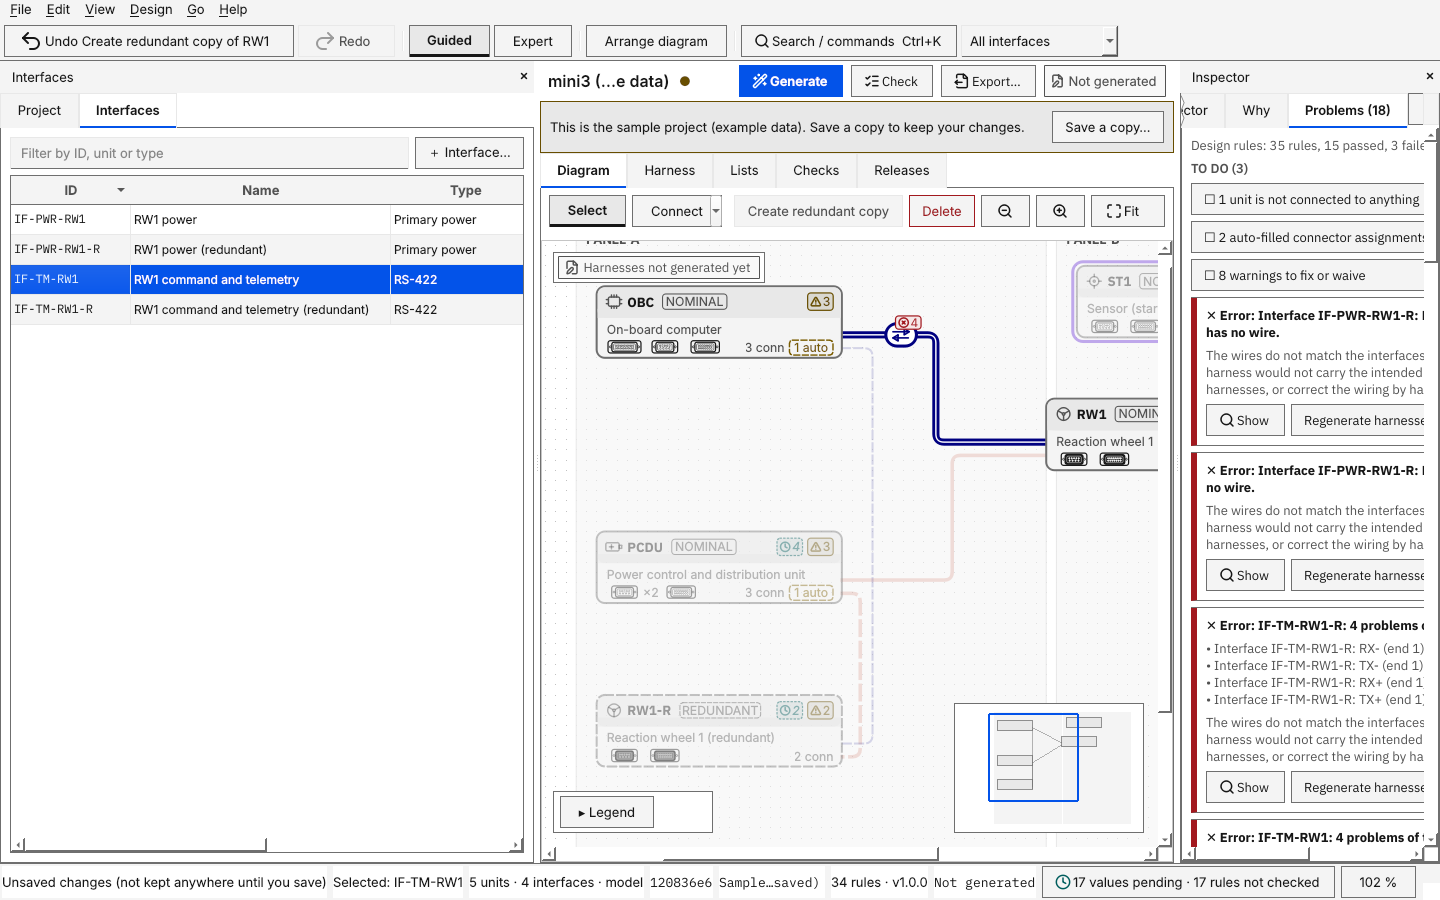
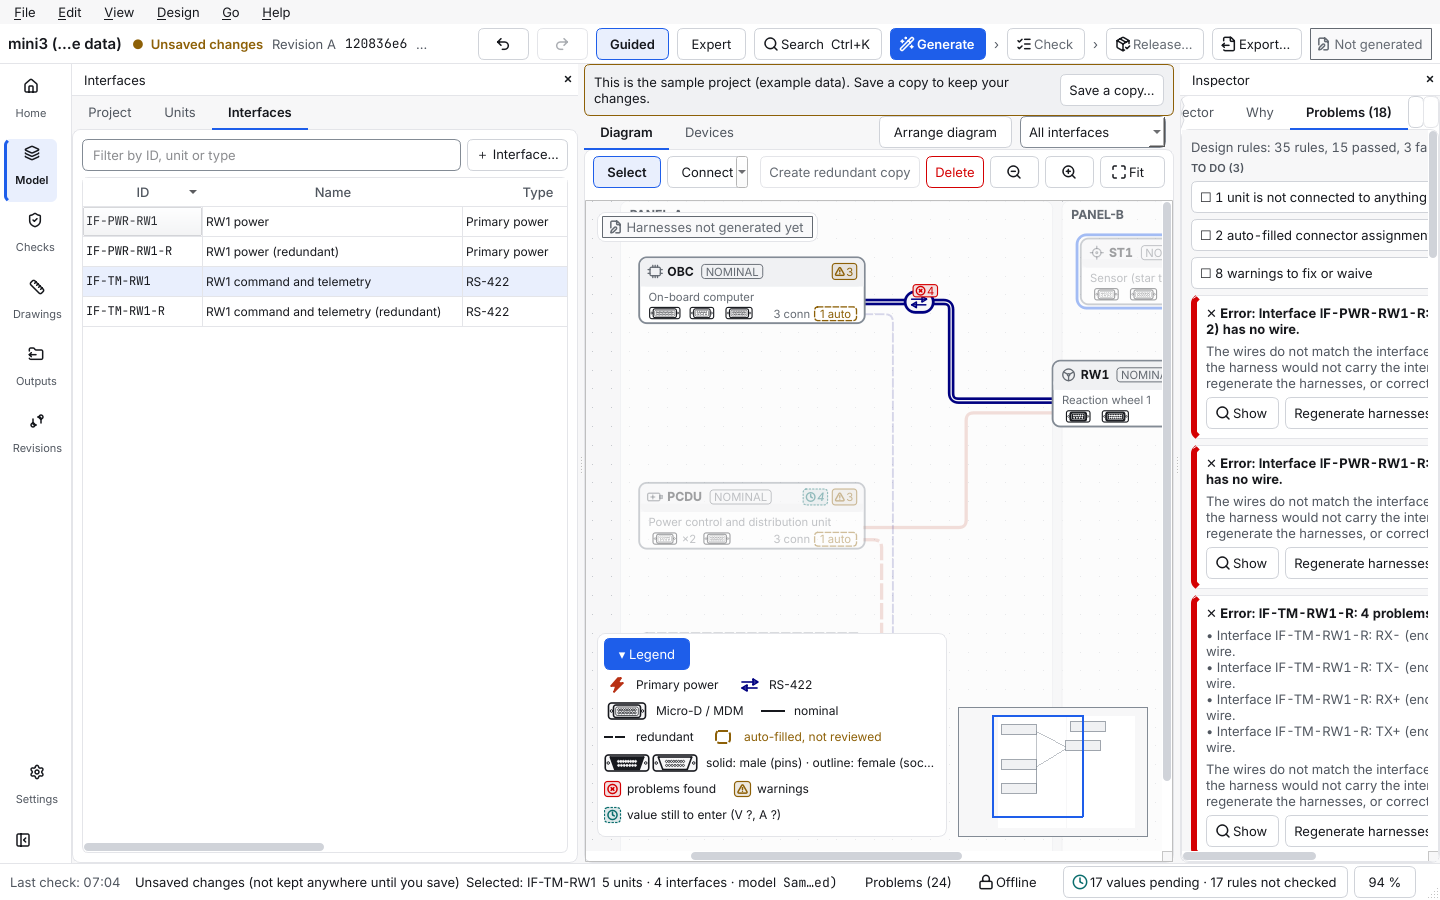
Record the publication of 1.3.0: checksums, SIGNOFF.md section, README and CLAUDE.md status, editor pictures redrawn for the new window
Claude-Session: https://claude.ai/code/session_01K7PmjFJdKvkUGQzZA5G9xT

Changed region(s): [[0.0, 0.0, 1.0, 1.0], [0.0, 0.84, 0.0625, 0.9022], [0.0, 0.4667, 0.0312, 0.5289]]

diff --git a/HarnessDesignStudio/README.md b/HarnessDesignStudio/README.md
@@ -21,7 +21,7 @@ You describe the **units** (computer, power unit, reaction wheel ...) and the **
 - **Starts from the usual standards.** RS-422, RS-485 and CAN for communication, Micro-D (9 to 31 pin) for power and data, Ethernet as the alternative for high data rates, SMA for RF (what each one is: [glossary](docs/GLOSSARY.md)). Other types and connectors can be added.
 - **Honest about what it does not know.** Engineering values (derating, ampacity, EMC rules, approved parts; see the [glossary](docs/GLOSSARY.md)) are never invented. Until you supply them, results say *pending* or *not checked*.
 
-Runs on **Ubuntu 24.04 or newer**; packages for **Windows 10 and 11** and **macOS 13 or newer** are built from version 1.2.0 on ([`docs/INSTALL.md`](docs/INSTALL.md), decision D-149). This repository holds version `1.3.0` (the new user interface), which is prepared and not yet published; the latest published release is `1.2.0` (see [Status](#status)).
+Runs on **Ubuntu 24.04 or newer**; packages for **Windows 10 and 11** and **macOS 13 or newer** are built from version 1.2.0 on ([`docs/INSTALL.md`](docs/INSTALL.md), decision D-149). The latest published release is version `1.3.0` (the new user interface; see [Status](#status)).
 
 ## Try it in five minutes
 
@@ -83,7 +83,7 @@ A project is a folder of small JSON files (`project.json`, `config/`, `library/`
 
 ## Status
 
-Version `1.3.0` (the new user interface, decisions D-150 to D-159) is prepared in this repository and not yet published; it has not been signed off by the owner either. Version `1.2.0` (packages for Windows and macOS, decision D-149) was published on 2026-10-19 as the tag `v1.2.0` on commit `1cdd6a7`; the `.deb`, the `.tar.gz`, the Windows setup program and `.zip`, the two macOS disk images and `SHA256SUMS` are on the GitHub release page, and the packages are not signed. It has not been signed off by the owner either. Version `1.1.0` was published on 2026-10-18 as the tag `v1.1.0` on commit `f998cd9`; the `.deb`, the `.tar.gz` and `SHA256SUMS` are on the GitHub release page. It has not been signed off by the owner (`docs/RELEASE.md` step 14); `compliance/SIGNOFF.md` records the release decision for 1.0.0 and, after the fact, the publication of 1.1.0 and 1.2.0 (their checksums are in `compliance/evidence/`); it records no owner sign-off for them. Version `1.0.0`, released on the owner's instruction on 2026-10-12 ([`compliance/SIGNOFF.md`](compliance/SIGNOFF.md); all the records are indexed in [`compliance/README.md`](compliance/README.md)). It was published on 2026-10-12 as the tag `v1.0.0` on commit `0c6a96a`; the `.deb`, the `.tar.gz` and `SHA256SUMS` are on the GitHub release page. Documents changed after that commit are on `master` but are not inside those packages. It is not a statement of compliance with any standard. On 2026-10-12 the assistant recorded defaults for the four open engineering decisions under the owner's delegation, which the owner can change later ([`docs/DECISIONS.md`](docs/DECISIONS.md) D-142 to D-145): the harness boundary rule (D-10) and the title block (D-15) are the documented defaults the tool implements; the tool ships no derating or EMC values (D-11) and no approved parts list (D-12), so each project supplies them and until then results rest on placeholders and example parts. The licence of `HarnessDesignStudio/` stays the placeholder `LicenseRef-Proprietary` (D-02, D-143). Not done and waived by the owner: independent review, usability sessions, a screen-reader pass and a clean-machine installation test; the packages are not signed ([`compliance/DEVIATIONS.md`](compliance/DEVIATIONS.md)). See [`docs/OPEN_DECISIONS.md`](docs/OPEN_DECISIONS.md) (the options as they were) and [`docs/RELEASE.md`](docs/RELEASE.md). Until the engineering values exist, results say so. The [changelog](CHANGELOG.md) lists what is new since 0.1.0.
+Version `1.3.0` (the new user interface, decisions D-150 to D-159) was published on 2026-10-20 as the tag `v1.3.0` on commit `e7cf531`; the `.deb`, the `.tar.gz`, the Windows setup program and `.zip`, the two macOS disk images and `SHA256SUMS` are on the GitHub release page, and the packages are not signed. It has not been signed off by the owner either. Version `1.2.0` (packages for Windows and macOS, decision D-149) was published on 2026-10-19 as the tag `v1.2.0` on commit `1cdd6a7`; the `.deb`, the `.tar.gz`, the Windows setup program and `.zip`, the two macOS disk images and `SHA256SUMS` are on the GitHub release page, and the packages are not signed. It has not been signed off by the owner either. Version `1.1.0` was published on 2026-10-18 as the tag `v1.1.0` on commit `f998cd9`; the `.deb`, the `.tar.gz` and `SHA256SUMS` are on the GitHub release page. It has not been signed off by the owner (`docs/RELEASE.md` step 14); `compliance/SIGNOFF.md` records the release decision for 1.0.0 and, after the fact, the publication of 1.1.0, 1.2.0 and 1.3.0 (their checksums are in `compliance/evidence/`); it records no owner sign-off for them. Version `1.0.0`, released on the owner's instruction on 2026-10-12 ([`compliance/SIGNOFF.md`](compliance/SIGNOFF.md); all the records are indexed in [`compliance/README.md`](compliance/README.md)). It was published on 2026-10-12 as the tag `v1.0.0` on commit `0c6a96a`; the `.deb`, the `.tar.gz` and `SHA256SUMS` are on the GitHub release page. Documents changed after that commit are on `master` but are not inside those packages. It is not a statement of compliance with any standard. On 2026-10-12 the assistant recorded defaults for the four open engineering decisions under the owner's delegation, which the owner can change later ([`docs/DECISIONS.md`](docs/DECISIONS.md) D-142 to D-145): the harness boundary rule (D-10) and the title block (D-15) are the documented defaults the tool implements; the tool ships no derating or EMC values (D-11) and no approved parts list (D-12), so each project supplies them and until then results rest on placeholders and example parts. The licence of `HarnessDesignStudio/` stays the placeholder `LicenseRef-Proprietary` (D-02, D-143). Not done and waived by the owner: independent review, usability sessions, a screen-reader pass and a clean-machine installation test; the packages are not signed ([`compliance/DEVIATIONS.md`](compliance/DEVIATIONS.md)). See [`docs/OPEN_DECISIONS.md`](docs/OPEN_DECISIONS.md) (the options as they were) and [`docs/RELEASE.md`](docs/RELEASE.md). Until the engineering values exist, results say so. The [changelog](CHANGELOG.md) lists what is new since 0.1.0.
 
 ## For developers
 

diff --git a/README.md b/README.md
@@ -35,13 +35,13 @@ It works offline and produces byte-identical files for the same design, so the f
 
 ## Quick start
 
-You need Ubuntu 24.04 or newer on a 64-bit PC (see [Requirements](#requirements)); the Windows and macOS packages of version 1.2.0 are described in [`INSTALL.md`](HarnessDesignStudio/docs/INSTALL.md), ways D and E.
+You need Ubuntu 24.04 or newer on a 64-bit PC (see [Requirements](#requirements)); the Windows and macOS packages (from version 1.2.0) are described in [`INSTALL.md`](HarnessDesignStudio/docs/INSTALL.md), ways D and E.
 
-**Easiest: the ready-made package.** Download `harness-design-studio_1.2.0_amd64.deb` and `SHA256SUMS` from the [latest release](https://github.com/0h3xn4/WireViz-harnessdesignstudio/releases/latest), then in the folder with the files:
+**Easiest: the ready-made package.** Download `harness-design-studio_1.3.0_amd64.deb` and `SHA256SUMS` from the [latest release](https://github.com/0h3xn4/WireViz-harnessdesignstudio/releases/latest), then in the folder with the files:
 
 ```
 sha256sum -c SHA256SUMS --ignore-missing
-sudo apt install ./harness-design-studio_1.2.0_amd64.deb
+sudo apt install ./harness-design-studio_1.3.0_amd64.deb
 ```
 
 That installs the `harness-design-studio` command line tool (`harness` works as a short alias) and the `harness-design-studio-gui` app; the packages are not signed, so the checksum check is the only proof that the download is intact. The release page also has a `.tar.gz` with an `install.sh` that needs no administrator rights.
@@ -104,9 +104,9 @@ Every guide is listed, with one line each, in the [documentation index](docs/REA
 
 ## Licence and status
 
-- **Version `1.3.0`** (the new user interface) is prepared in this repository and not yet published; the latest published release is **version `1.2.0`**, published on 2026-10-19 (tag `v1.2.0` on commit `1cdd6a7`; the packages for Ubuntu, Windows and macOS and `SHA256SUMS` are on the GitHub release page; the packages are not signed). **Version `1.1.0`**, published on 2026-10-18 (tag `v1.1.0` on commit `f998cd9`; the packages and `SHA256SUMS` are on the GitHub release page). It has not been signed off by the owner as a compliance record (the changelog says so; [`compliance/SIGNOFF.md`](HarnessDesignStudio/compliance/SIGNOFF.md) records the release decision for 1.0.0 only and the publication of 1.1.0 and 1.2.0 after the fact, with no owner sign-off for them). **Version `1.0.0`**, released on the repository owner's instruction on 2026-10-12 (tag `v1.0.0` on commit `0c6a96a`; the packages and `SHA256SUMS` are on the GitHub release page). The open engineering decisions were recorded as defaults on that day: the tool ships no standard or part data, so the real derating and EMC values and the approved parts list have not been supplied and results rest on placeholders and example parts. [`HarnessDesignStudio/README.md#status`](HarnessDesignStudio/README.md#status) has the details.
+- **Version `1.3.0`** (the new user interface) is the latest published release, published on 2026-10-20 (tag `v1.3.0` on commit `e7cf531`; the packages for Ubuntu, Windows and macOS and `SHA256SUMS` are on the GitHub release page; the packages are not signed). **Version `1.2.0`**, published on 2026-10-19 (tag `v1.2.0` on commit `1cdd6a7`; the packages for Ubuntu, Windows and macOS and `SHA256SUMS` are on the GitHub release page; the packages are not signed). **Version `1.1.0`**, published on 2026-10-18 (tag `v1.1.0` on commit `f998cd9`; the packages and `SHA256SUMS` are on the GitHub release page). It has not been signed off by the owner as a compliance record (the changelog says so; [`compliance/SIGNOFF.md`](HarnessDesignStudio/compliance/SIGNOFF.md) records the release decision for 1.0.0 only and the publication of 1.1.0, 1.2.0 and 1.3.0 after the fact, with no owner sign-off for them). **Version `1.0.0`**, released on the repository owner's instruction on 2026-10-12 (tag `v1.0.0` on commit `0c6a96a`; the packages and `SHA256SUMS` are on the GitHub release page). The open engineering decisions were recorded as defaults on that day: the tool ships no standard or part data, so the real derating and EMC values and the approved parts list have not been supplied and results rest on placeholders and example parts. [`HarnessDesignStudio/README.md#status`](HarnessDesignStudio/README.md#status) has the details.
 - **Created mainly by an AI.** Harness Design Studio was written mainly by Claude (Anthropic's AI assistant, used through Claude Code); the owner set the requirements and approved the decisions and releases. No other person has reviewed it independently, and it makes no claim of compliance with any standard. Check its results before relying on them. The records are in [`HarnessDesignStudio/compliance/`](HarnessDesignStudio/compliance/README.md).
-- **Older packages:** some things described in these pages (the `minimal-satellite` and `flatsat` examples, the wiring-diagram drawing with wire colours, *Edit > Wire colours*) are not in the 0.1.0 packages. `harness-design-studio new --list` shows three examples on 0.1.0 and five on 1.0.0, 1.1.0 and 1.2.0. The [changelog](HarnessDesignStudio/CHANGELOG.md) lists what is new.
+- **Older packages:** some things described in these pages (the `minimal-satellite` and `flatsat` examples, the wiring-diagram drawing with wire colours, *Edit > Wire colours*) are not in the 0.1.0 packages. `harness-design-studio new --list` shows three examples on 0.1.0 and five on 1.0.0 and later. The [changelog](HarnessDesignStudio/CHANGELOG.md) lists what is new.
 - **Licence.** The [`LICENSE`](LICENSE) file in this repository is the GPL-3.0 licence of WireViz. The licence of the code in `HarnessDesignStudio/` has not been decided (decision D-02 in [`HarnessDesignStudio/docs/DECISIONS.md`](HarnessDesignStudio/docs/DECISIONS.md), kept open for 1.0.0 in D-143; the package metadata says `LicenseRef-Proprietary`; the copyright holder is the repository owner, GitHub account `0h3xn4`). No licence has been granted for it yet.
 
 ## What this repository adds to WireViz

diff --git a/HarnessDesignStudio/CLAUDE.md b/HarnessDesignStudio/CLAUDE.md
@@ -3,7 +3,7 @@
 Clean-room project inside the WireViz repo. **Never copy or import code from `../src/wireviz` (GPL-3.0).** Specification: `docs/SPEC.md`; decisions: `docs/DECISIONS.md`; architecture: `docs/ARCHITECTURE.md`; plan: `docs/PLAN.md`.
 
 ## Status
-M0 to M9 done (`docs/demos/`), then the October audit (`docs/AUDIT.md`) and the pre-release audit (`../AUDIT.md`); version 1.3.0 (the UI overhaul, D-150 to D-159; prepared 2026-10-20, not yet published, not signed off); version 1.2.0 (published 2026-10-19 as tag v1.2.0 on 1cdd6a7 with the Windows and macOS packages, D-149; not signed off by the owner); version 1.1.0 (published 2026-10-18 as tag v1.1.0 on f998cd9; not signed off by the owner, docs/RELEASE.md step 14); version 1.0.0 (released on the owner's instruction on 2026-10-12, compliance/SIGNOFF.md; version 0.1.0 was released on 2026-10-09 with the engineering decisions open, DEVIATIONS.md T-31). Platform: Ubuntu 24.04 and newer, Windows 10/11 and macOS 13+ from 1.2.0 (D-149; supersedes D-110, D-127). The owner waived the people-dependent compliance actions on 2026-10-09 (`compliance/DEVIATIONS.md` T-20 to T-30; a waiver accepts a deviation and does not meet the requirement). On 2026-10-12 the owner said "Make default decisions so that I'm not needed" and the assistant recorded defaults (D-142 to D-145, DEVIATIONS.md T-32): the harness boundary rule (D-10) and title block (D-15) are the documented defaults the tool implements; the tool ships no derating/EMC values (D-11) and no approved parts list (D-12), each project supplies them, and nobody has. The licence stays the placeholder `LicenseRef-Proprietary` (D-02, D-143). D-20 is not needed. Generation runs on placeholders until a project supplies values; results must say so. The release is made by pushing a tag `vX.Y.Z`, or by publishing a release on GitHub that creates the tag when tag pushes are refused (`.github/workflows/release.yml`, `docs/RELEASE.md` step 15). Version 1.0.0 is published: tag `v1.0.0` on `0c6a96a`, made through the release page.
+M0 to M9 done (`docs/demos/`), then the October audit (`docs/AUDIT.md`) and the pre-release audit (`../AUDIT.md`); version 1.3.0 (the UI overhaul, D-150 to D-159; published 2026-10-20 as tag v1.3.0 on e7cf531 with the Linux, Windows and macOS packages; not signed off by the owner); version 1.2.0 (published 2026-10-19 as tag v1.2.0 on 1cdd6a7 with the Windows and macOS packages, D-149; not signed off by the owner); version 1.1.0 (published 2026-10-18 as tag v1.1.0 on f998cd9; not signed off by the owner, docs/RELEASE.md step 14); version 1.0.0 (released on the owner's instruction on 2026-10-12, compliance/SIGNOFF.md; version 0.1.0 was released on 2026-10-09 with the engineering decisions open, DEVIATIONS.md T-31). Platform: Ubuntu 24.04 and newer, Windows 10/11 and macOS 13+ from 1.2.0 (D-149; supersedes D-110, D-127). The owner waived the people-dependent compliance actions on 2026-10-09 (`compliance/DEVIATIONS.md` T-20 to T-30; a waiver accepts a deviation and does not meet the requirement). On 2026-10-12 the owner said "Make default decisions so that I'm not needed" and the assistant recorded defaults (D-142 to D-145, DEVIATIONS.md T-32): the harness boundary rule (D-10) and title block (D-15) are the documented defaults the tool implements; the tool ships no derating/EMC values (D-11) and no approved parts list (D-12), each project supplies them, and nobody has. The licence stays the placeholder `LicenseRef-Proprietary` (D-02, D-143). D-20 is not needed. Generation runs on placeholders until a project supplies values; results must say so. The release is made by pushing a tag `vX.Y.Z`, or by publishing a release on GitHub that creates the tag when tag pushes are refused (`.github/workflows/release.yml`, `docs/RELEASE.md` step 15). Version 1.0.0 is published: tag `v1.0.0` on `0c6a96a`, made through the release page.
 
 ## Commands (run from `HarnessDesignStudio/`)
 - Setup: `python3 -m venv .venv && . .venv/bin/activate && pip install -e ".[gui,dev]"` (Linux also needs libegl1 libgl1 libxkbcommon0 libxkbcommon-x11-0 libfontconfig1 libdbus-1-3 libxcb-cursor0 for Qt)
@@ -11,7 +11,7 @@ M0 to M9 done (`docs/demos/`), then the October audit (`docs/AUDIT.md`) and the 
 - Lint/type: `ruff format . && ruff check . && mypy`
 - CLI: `harness-design-studio --version | new FOLDER [--template NAME] | templates FOLDER | validate DIR | check DIR | migrate DIR | generate DIR | verify DIR | drc DIR | export DIR | verify DIR --outputs | review/release/revise/diff/log DIR HARNESS | compare OLD NEW | config DIR | import-parts/import-lengths/import-netlist DIR FILE`; GUI: `harness-design-studio-gui`; `harness` and `harness-gui` are kept as aliases
 - GUI tests: `QT_QPA_PLATFORM=offscreen pytest tests/test_gui_journeys.py` (conftest sets it); timings: `python -m tools.bench_gui`; screenshots of the real editor: `python -m tools.gui_screenshots` (docs/ux/qt, 26 pictures, about a minute) and `python -m tools.flatsat_screenshots` (docs/img)
-- Prototype: edit `prototype/template.html` / `prototype/app.js` or `gui/tokens.py`, then `python -m tools.build_prototype` (a test fails if `index.html` is stale); screenshots: `python -m tools.ux_screenshots`; journeys: `pytest tests/test_prototype.py` (needs Chromium, skips otherwise)
+- Prototype: edit `prototype/template.html` / `prototype/app.js` or `gui/theme/tokens.py`, then `python -m tools.build_prototype` (a test fails if `index.html` is stale); screenshots: `python -m tools.ux_screenshots`; journeys: `pytest tests/test_prototype.py` (needs Chromium, skips otherwise)
 - Stress benchmarks: `python -m tools.bench_stress`, `python -m tools.bench_generate`
 - Output goldens: `PYTHONPATH=. python -m tools.gen_output_goldens` (on purpose; review the diff)
 - Package (Ubuntu): `python -m tools.build_installer`, `python -m tools.build_deb`, then `dist/harness-design-studio/harness-design-studio-gui --selftest`

diff --git a/HarnessDesignStudio/compliance/SIGNOFF.md b/HarnessDesignStudio/compliance/SIGNOFF.md
@@ -104,3 +104,21 @@ Recorded from the GitHub release page and the workflow run. Pull request 69 (ver
[1 lines of base64/hex data omitted]
 
 The checksums are also in `evidence/release_1.2.0_SHA256SUMS` (the same bytes as the `SHA256SUMS` file on the release page, 671 bytes). The packages were built by the workflow on GitHub's machines; they have not been installed on a clean machine without a network by a person (the waiver T-30 stands).
+
+
+## Publication of 1.3.0 (2026-10-20)
+
+Recorded from the GitHub release page and the workflow run. Version 1.3.0 is the new user interface (the UI overhaul, decisions D-150 to D-159, pull requests 72 to 81); the last of them, the final milestone (pull request 81), was merged as commit `e7cf531`. The assistant that prepared it could not push the tag from its working session (tag pushes are refused with HTTP 403, `docs/RELEASE.md` step 15); the repository owner created the tag `v1.3.0` on that commit through the release page on 2026-10-20 at 06:22 UTC. The tag push started `.github/workflows/release.yml` (run 39380004795). The Linux, Windows and two macOS build jobs built the packages and ran their smoke tests on the finished files; the last job attached the six packages and one `SHA256SUMS` to the release page at 06:27 UTC. The packages are not signed or notarized: no certificate secrets exist, so the signing steps were skipped. Nobody has signed off 1.3.0 as the owner, and nothing here is a statement of compliance. Before the tag, the whole test suite had passed on Linux, Windows and macOS for pull request 81 (one Windows run during the overhaul stopped once with the exit code 3221226505 in `test_gui_paint_crash` and passed on the second run; the cause of that single failure is not known).
+
+What did not change: the design model, the file format, the 34 design rules, the command line and the generated files. All 567 files that the four packaged examples write are identical to those of 1.2.0 apart from the tool version they record (`tools/output_hashes.py`, `docs/ui/OUTPUT_HASHES_1.2.0.json`, `tests/test_output_hashes.py`). Not met: the target of 250 ms for a change of the interface size (it takes about 1.1 s; D-158, D-159, `docs/ui/PERF_BASELINE.md`).
+
+| File | SHA-256 |
+| --- | --- |
[6 lines of base64/hex data omitted]
+
[1 lines of base64/hex data omitted]

diff --git a/HarnessDesignStudio/docs/ui/UI_OVERHAUL_PLAN.md b/HarnessDesignStudio/docs/ui/UI_OVERHAUL_PLAN.md
@@ -384,7 +384,7 @@ into the summary, all existing tests green (CI on Linux, Windows, macOS), golden
   that is waiver T-30 stays open.
 - *Acceptance:* all "Definition of done" lines in the brief; outputs of all examples byte-identical to 1.2.0.
 
-**Final milestone result (2026-10-20).** Built as D-159. Checks over every area in both themes (`tests/test_ui_final.py`) found and fixed a keyboard trap and a panel that did not return to its width; screenshots (103) and `BEFORE_AFTER.md` are complete; version 1.3.0 is prepared (changelog, release page text, regenerated examples and goldens) and the output proof holds for 567 of 567 files apart from the version stamp. Not met: the interface-size change (1.0 to 1.1 s). Not done: tagging and publishing (the owner's step), screen-reader pass, clean-machine install, signing.
+**Final milestone result (2026-10-20).** Built as D-159. Checks over every area in both themes (`tests/test_ui_final.py`) found and fixed a keyboard trap and a panel that did not return to its width; screenshots (103) and `BEFORE_AFTER.md` are complete; version 1.3.0 is prepared (changelog, release page text, regenerated examples and goldens) and the output proof holds for 567 of 567 files apart from the version stamp. Not met: the interface-size change (1.0 to 1.1 s). **Published** on 2026-10-20: the owner created the tag `v1.3.0` on `e7cf531` through the GitHub release page and the release workflow attached the six packages and `SHA256SUMS` (`compliance/SIGNOFF.md`, "Publication of 1.3.0"). Not done: the screen-reader pass, the clean-machine install, signing (all the owner's or waived).
 
 Rough size: M1 and M2 are the heaviest (each about a full session or more), M4 the riskiest, M3 and M5 to M9
 moderate.
